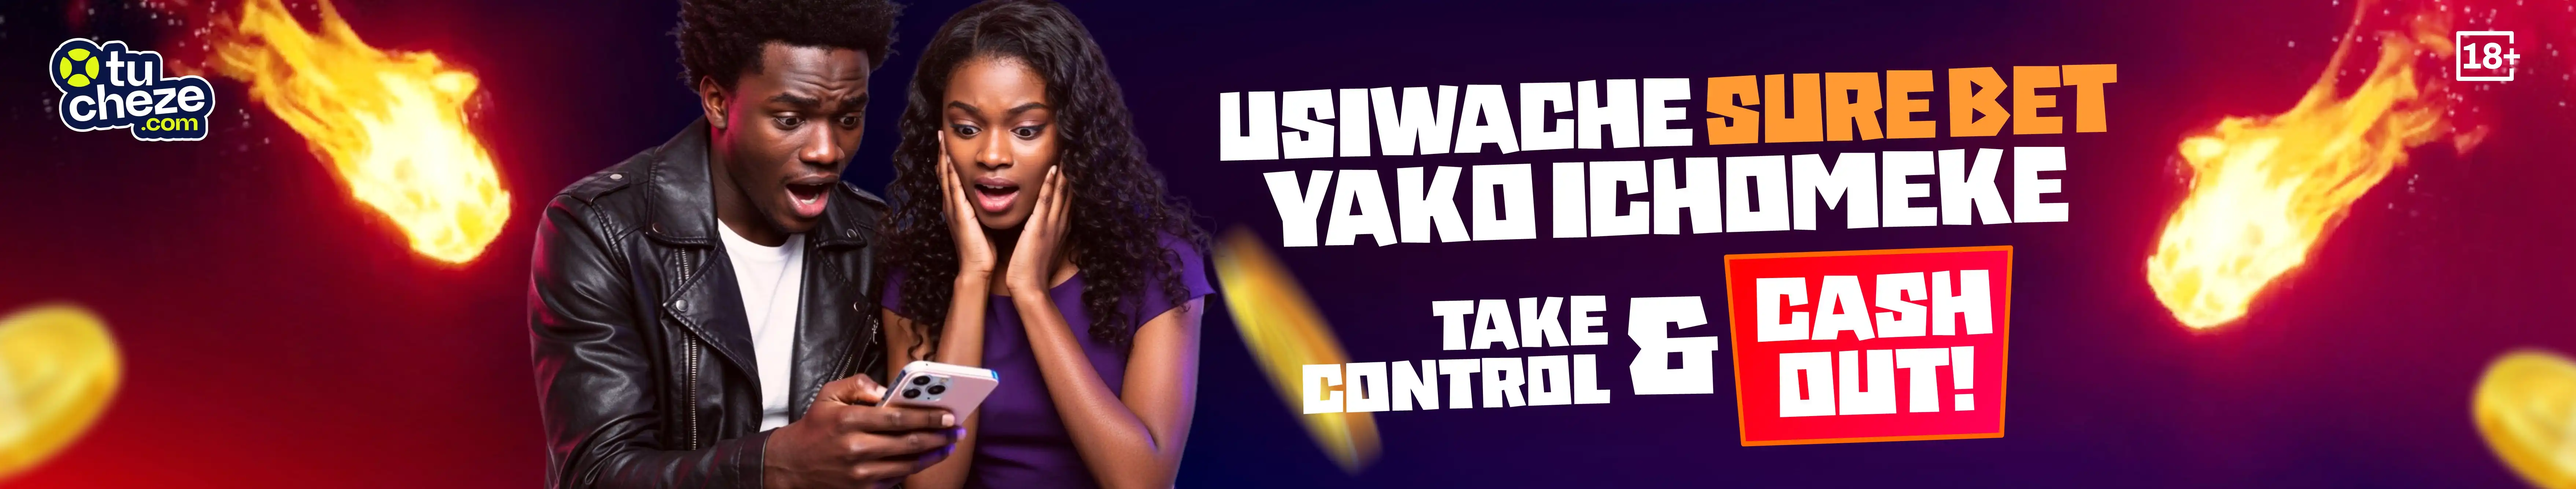
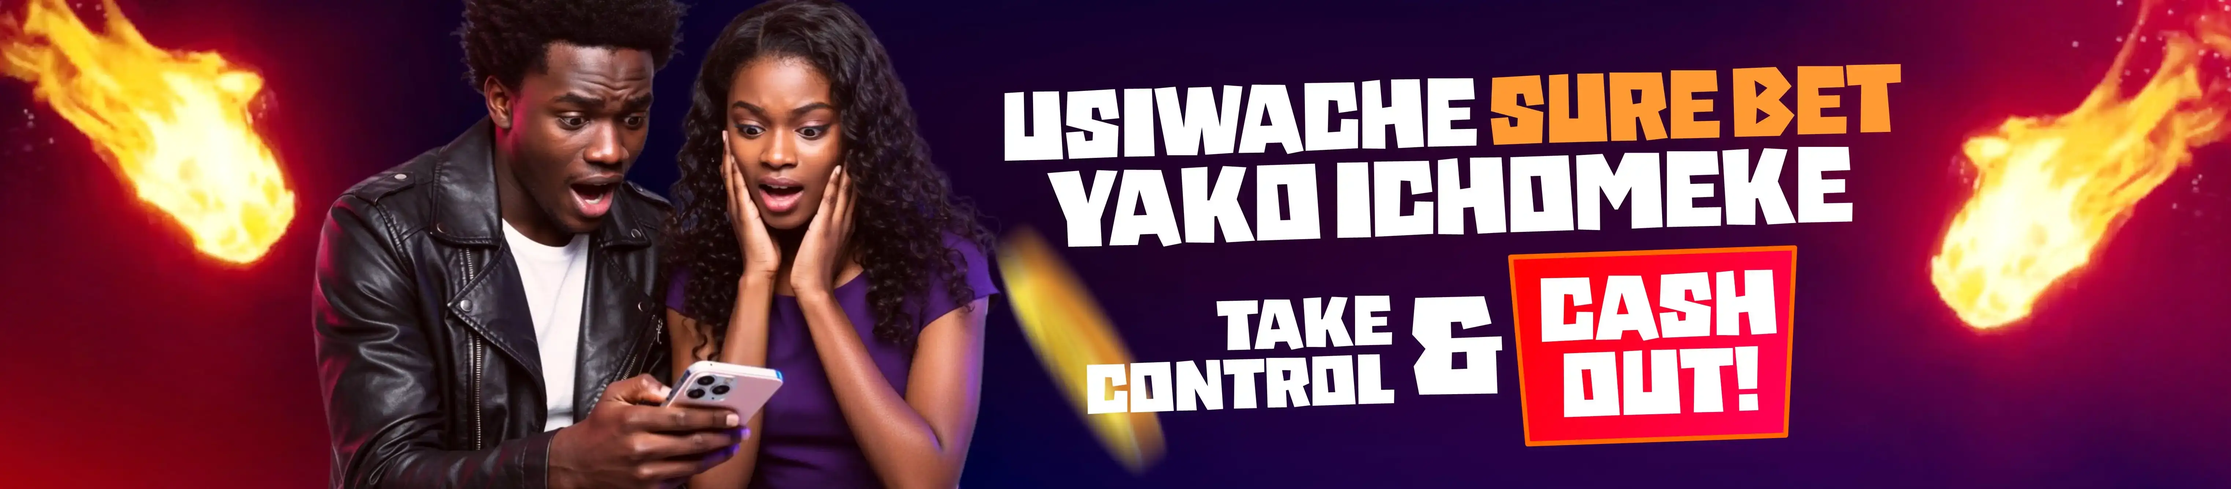
updated content

diff --git a/src/app/page.tsx b/src/app/page.tsx
@@ -172,32 +172,32 @@ export default function Home() {
                                 {/* Left Column - Games List */}
                                 <div className="xl:col-span-3 space-y-8">
                                     {/* Welcome Section for Guests */}
-                                    {!user.isLoggedIn && (
-                                        <section className="gradient-orange rounded-2xl p-8 text-center glow-orange">
-                                            <h2 className="text-3xl font-bold text-white mb-4">🎲 Welcome to JW Gaming</h2>
-                                            {/*<p className="text-white/90 text-lg mb-6">Join now and get $1,000 bonus to start playing!</p>*/}
-                                            <div className="flex gap-4 justify-center">
-                                                <button
-                                                    onClick={() => {
-                                                        setAuthMode('login');
-                                                        setAuthModalOpen(true);
-                                                    }}
-                                                    className="bg-white text-orange-600 px-8 py-3 rounded-xl font-bold hover:bg-gray-100 transition-colors"
-                                                >
-                                                    Sign In
-                                                </button>
-                                                <button
-                                                    onClick={() => {
-                                                        setAuthMode('register');
-                                                        setAuthModalOpen(true);
-                                                    }}
-                                                    className="bg-transparent border-2 border-white text-white px-8 py-3 rounded-xl font-bold hover:bg-white hover:text-orange-600 transition-colors"
-                                                >
-                                                    Register
-                                                </button>
-                                            </div>
-                                        </section>
-                                    )}
+                                    {/*{!user.isLoggedIn && (*/}
+                                    {/*    <section className="gradient-orange rounded-2xl p-8 text-center glow-orange">*/}
+                                    {/*        <h2 className="text-3xl font-bold text-white mb-4">🎲 Welcome to JW Gaming</h2>*/}
+                                    {/*        /!*<p className="text-white/90 text-lg mb-6">Join now and get $1,000 bonus to start playing!</p>*!/*/}
+                                    {/*        <div className="flex gap-4 justify-center">*/}
+                                    {/*            <button*/}
+                                    {/*                onClick={() => {*/}
+                                    {/*                    setAuthMode('login');*/}
+                                    {/*                    setAuthModalOpen(true);*/}
+                                    {/*                }}*/}
+                                    {/*                className="bg-white text-orange-600 px-8 py-3 rounded-xl font-bold hover:bg-gray-100 transition-colors"*/}
+                                    {/*            >*/}
+                                    {/*                Sign In*/}
+                                    {/*            </button>*/}
+                                    {/*            <button*/}
+                                    {/*                onClick={() => {*/}
+                                    {/*                    setAuthMode('register');*/}
+                                    {/*                    setAuthModalOpen(true);*/}
+                                    {/*                }}*/}
+                                    {/*                className="bg-transparent border-2 border-white text-white px-8 py-3 rounded-xl font-bold hover:bg-white hover:text-orange-600 transition-colors"*/}
+                                    {/*            >*/}
+                                    {/*                Register*/}
+                                    {/*            </button>*/}
+                                    {/*        </div>*/}
+                                    {/*    </section>*/}
+                                    {/*)}*/}
 
                                     {/* Game Tabs Section - Replaces individual game sections */}
                                     <section className="bg-stake-gray/50 rounded-2xl p-6 border border-stake-border backdrop-blur-sm">
